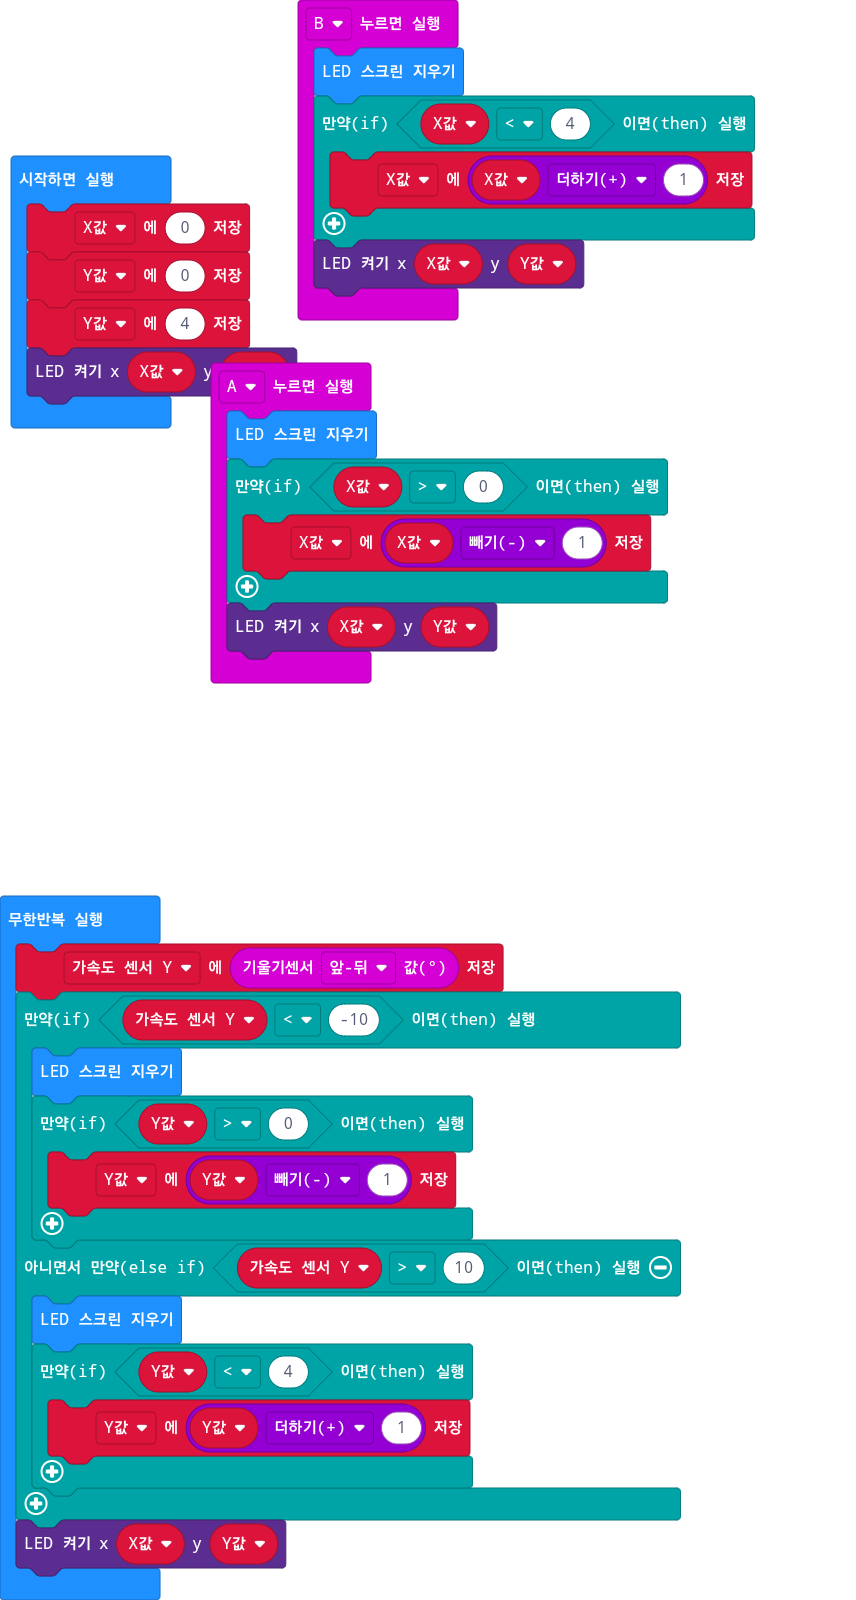
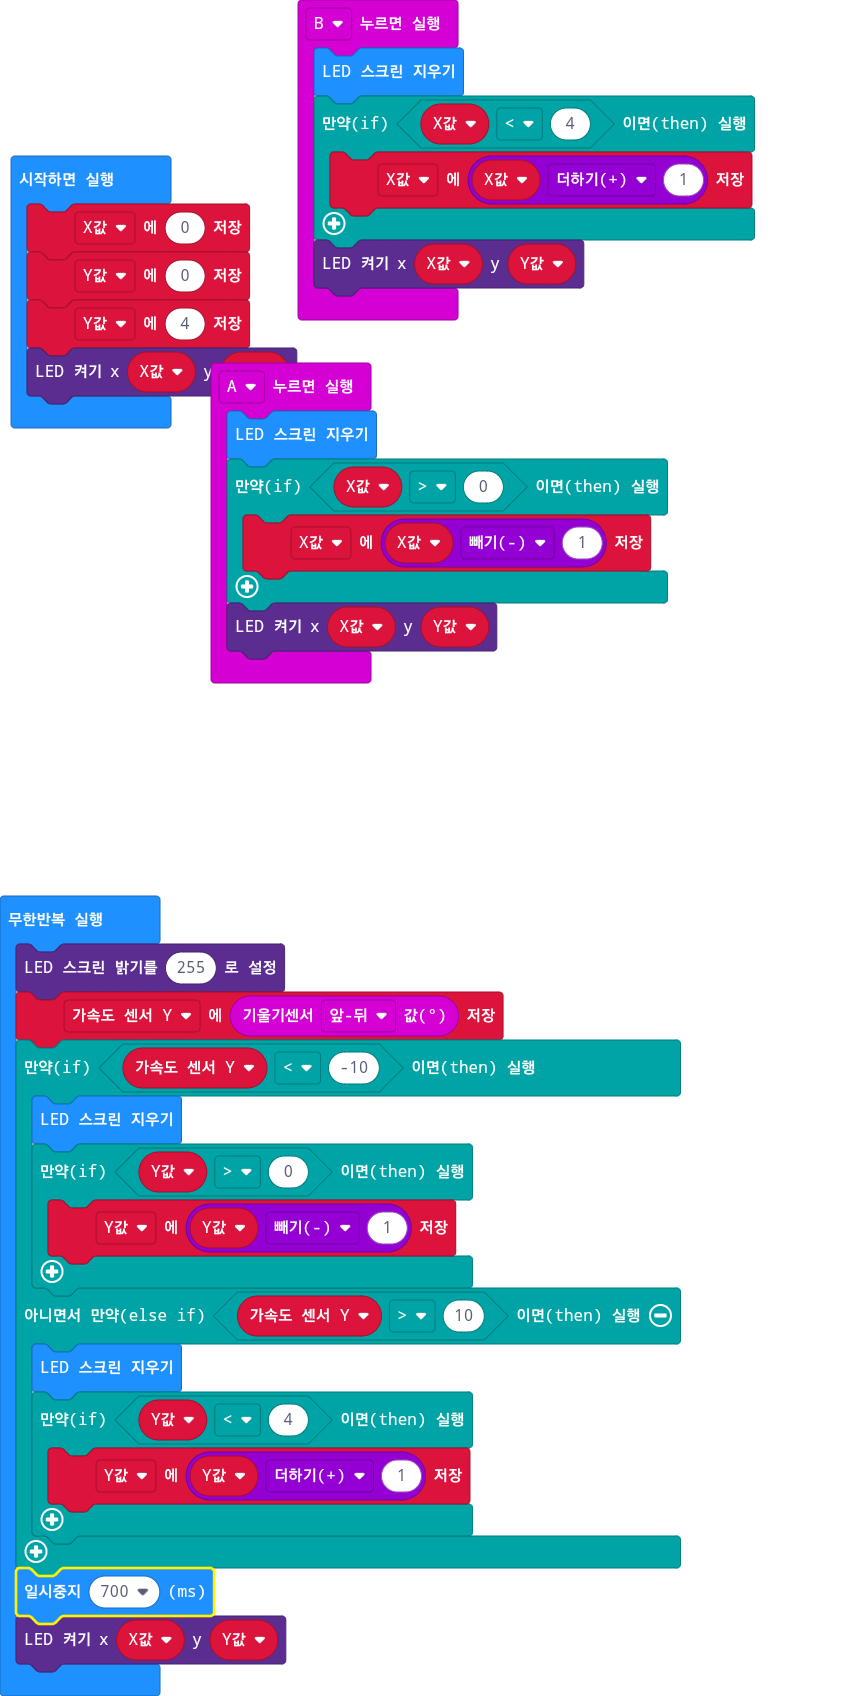
main.blocks, main.ts 업데이트하기

Changed region(s): [[0.0, 0.5, 0.8201, 1.0], [0.0, 0.0, 0.8808, 0.4375]]

diff --git a/main.ts b/main.ts
@@ -20,6 +20,7 @@ Y값 = 0
 Y값 = 4
 led.plot(X값, Y값)
 basic.forever(function () {
+    led.setBrightness(255)
     가속도_센서_Y = input.rotation(Rotation.Pitch)
     if (가속도_센서_Y < -10) {
         basic.clearScreen()
@@ -32,5 +33,6 @@ basic.forever(function () {
             Y값 = Y값 + 1
         }
     }
+    basic.pause(700)
     led.plot(X값, Y값)
 })
